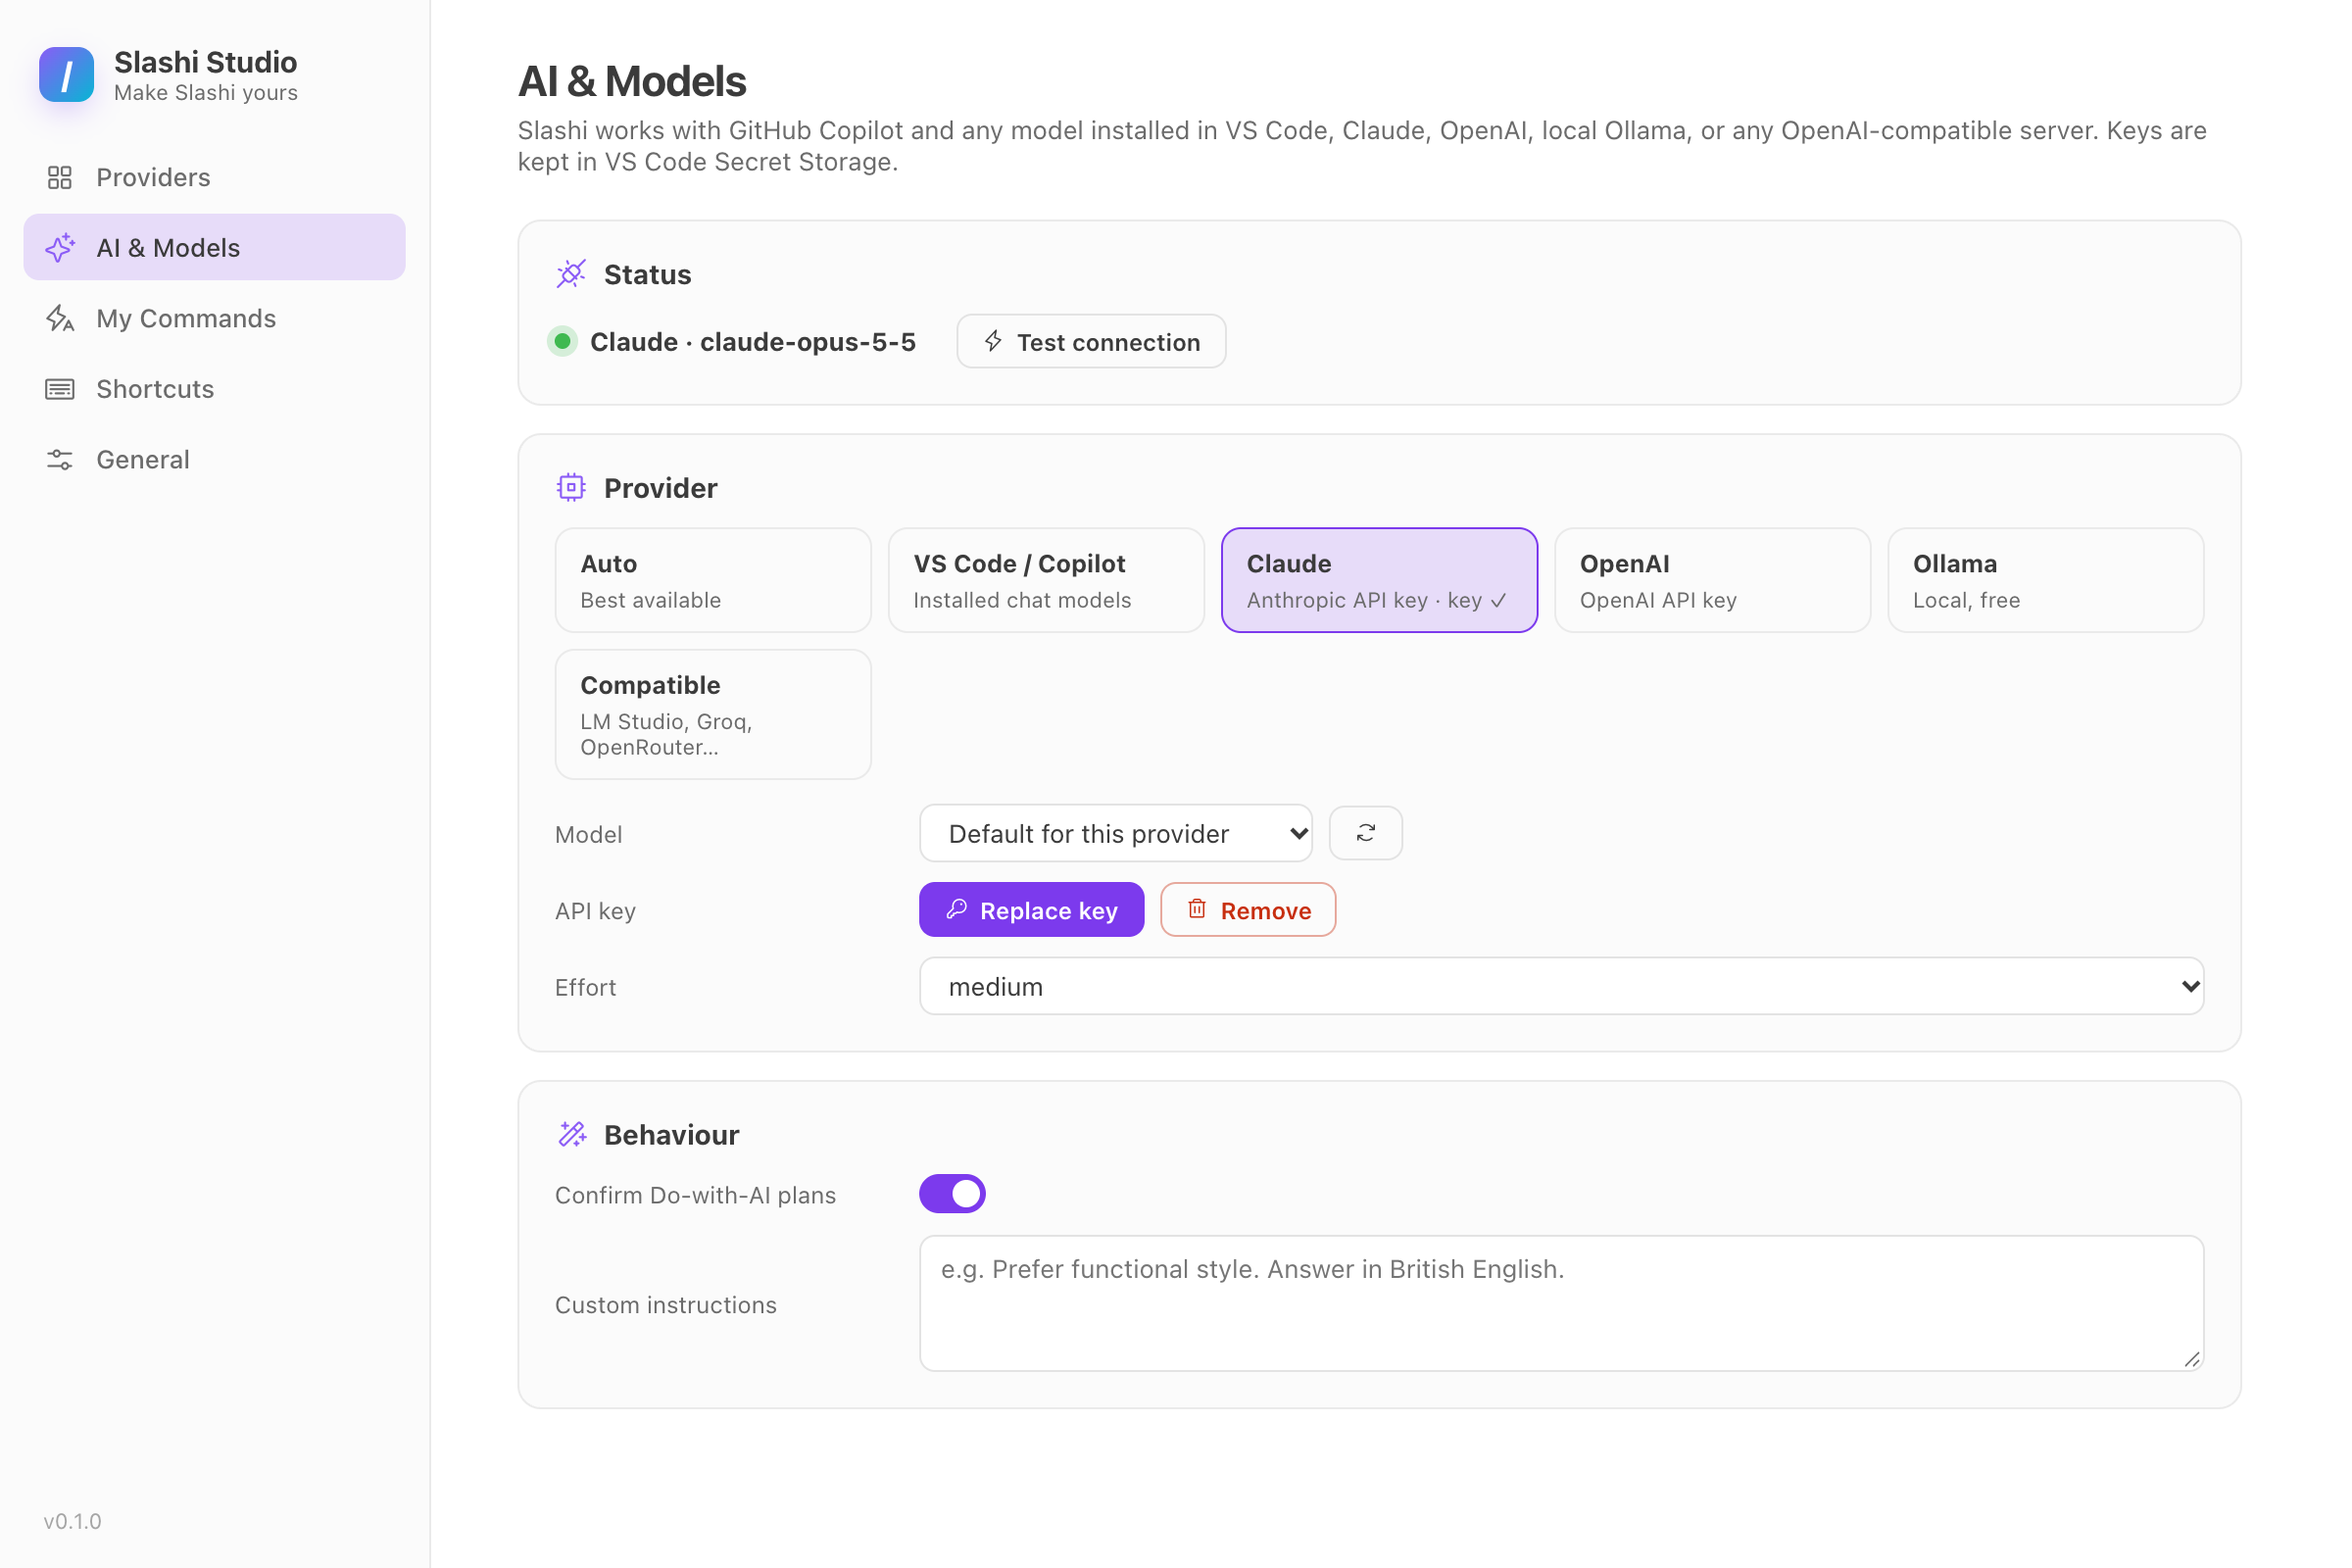
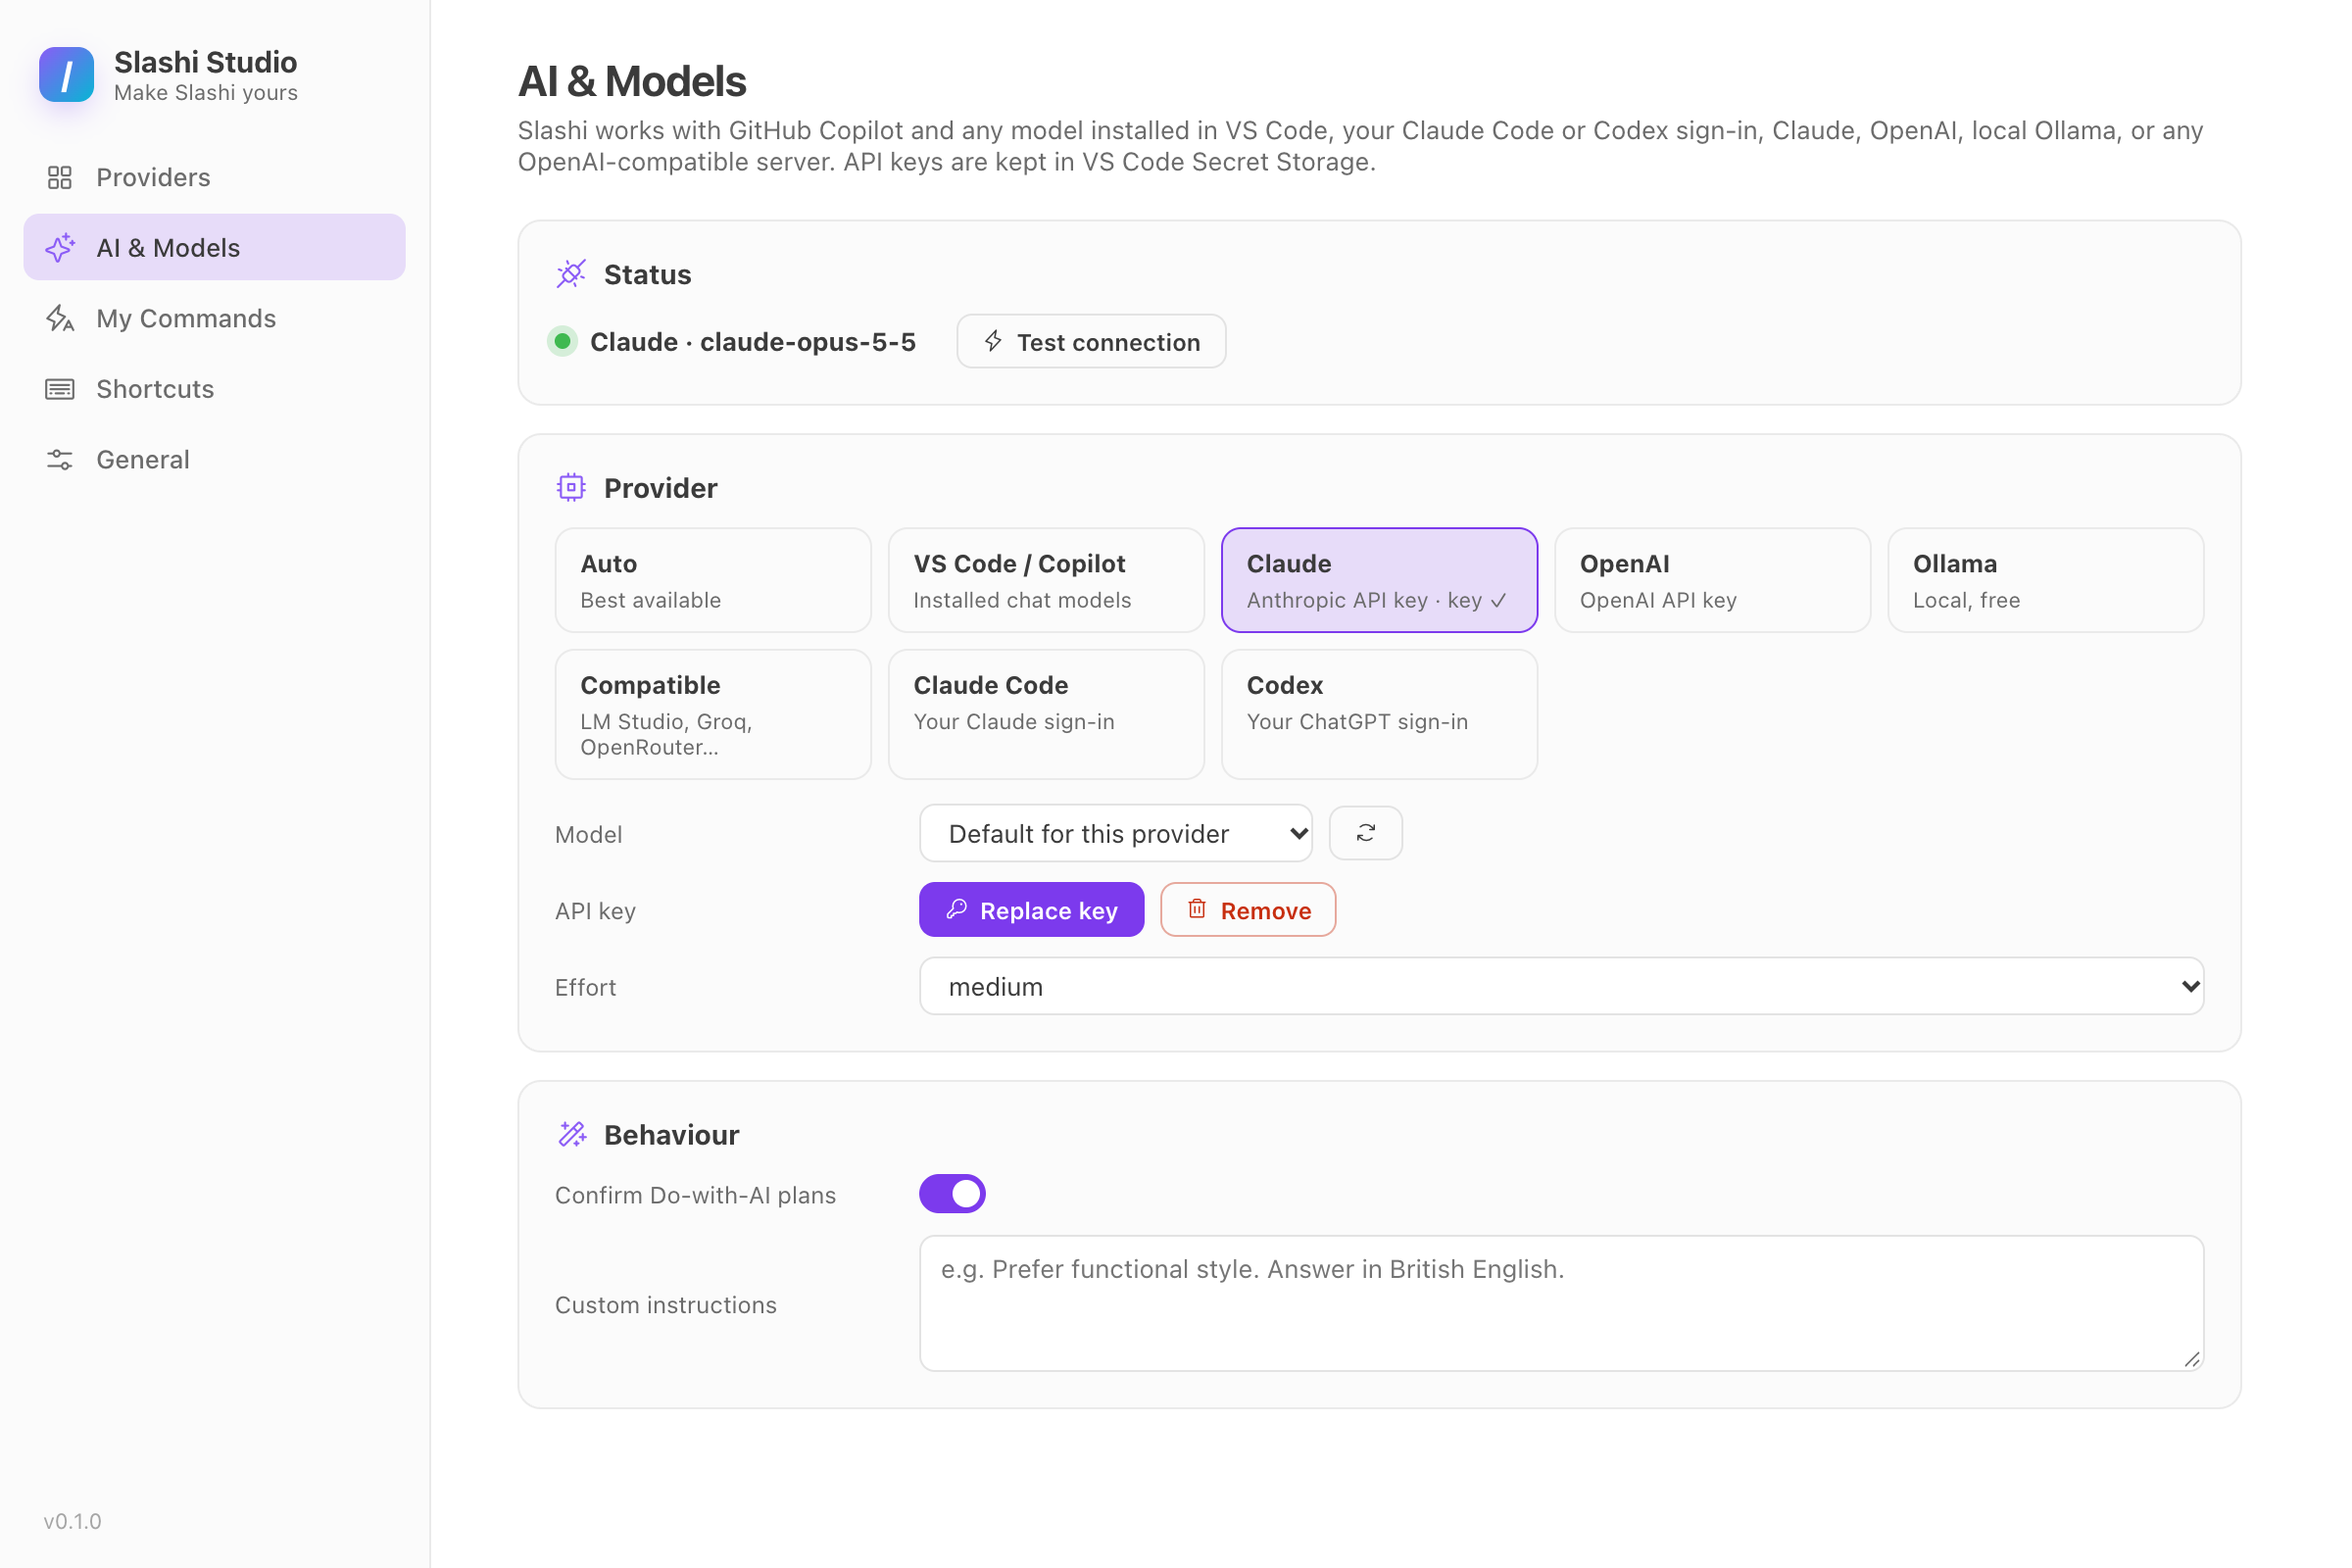
fix(studio): visible checked switch in high contrast, mention CLI sign-ins

diff --git a/src/webview/styles/base.css b/src/webview/styles/base.css
@@ -192,6 +192,9 @@ kbd {
 .switch[aria-checked='true'] { background: var(--button); border-color: transparent; }
 .switch[aria-checked='true']::after { transform: translateX(14px); background: var(--accent-fg); }
 .switch:focus-visible { outline: 2px solid var(--accent); outline-offset: 2px; }
+/* HC buttons are black-on-black, so the checked track uses the accent and keeps its border. */
+body.vscode-high-contrast .switch[aria-checked='true'],
+body.vscode-high-contrast-light .switch[aria-checked='true'] { background: var(--accent); border-color: var(--border); }
 
 ::-webkit-scrollbar { width: 10px; height: 10px; }
 ::-webkit-scrollbar-thumb { background: var(--vscode-scrollbarSlider-background, rgb(128 128 128 / 0.3)); border-radius: var(--radius-md); border: 3px solid transparent; background-clip: content-box; }

diff --git a/src/webview/studio.ts b/src/webview/studio.ts
@@ -112,7 +112,7 @@ function aiPage(): string {
   const models = ai.models.filter((m) => ai.provider === 'auto' || m.backend === ai.provider);
   return `<div class="page">
     <h1>AI & Models</h1>
-    <p class="lead">Slashi works with GitHub Copilot and any model installed in VS Code, Claude, OpenAI, local Ollama, or any OpenAI-compatible server. Keys are kept in VS Code Secret Storage.</p>
+    <p class="lead">Slashi works with GitHub Copilot and any model installed in VS Code, your Claude Code or Codex sign-in, Claude, OpenAI, local Ollama, or any OpenAI-compatible server. API keys are kept in VS Code Secret Storage.</p>
     <div class="panel">
       <h2>${icon('plugs-connected')} Status</h2>
       <div class="status-line"><span class="status-dot${ai.label ? ' ok' : ''}"></span>
